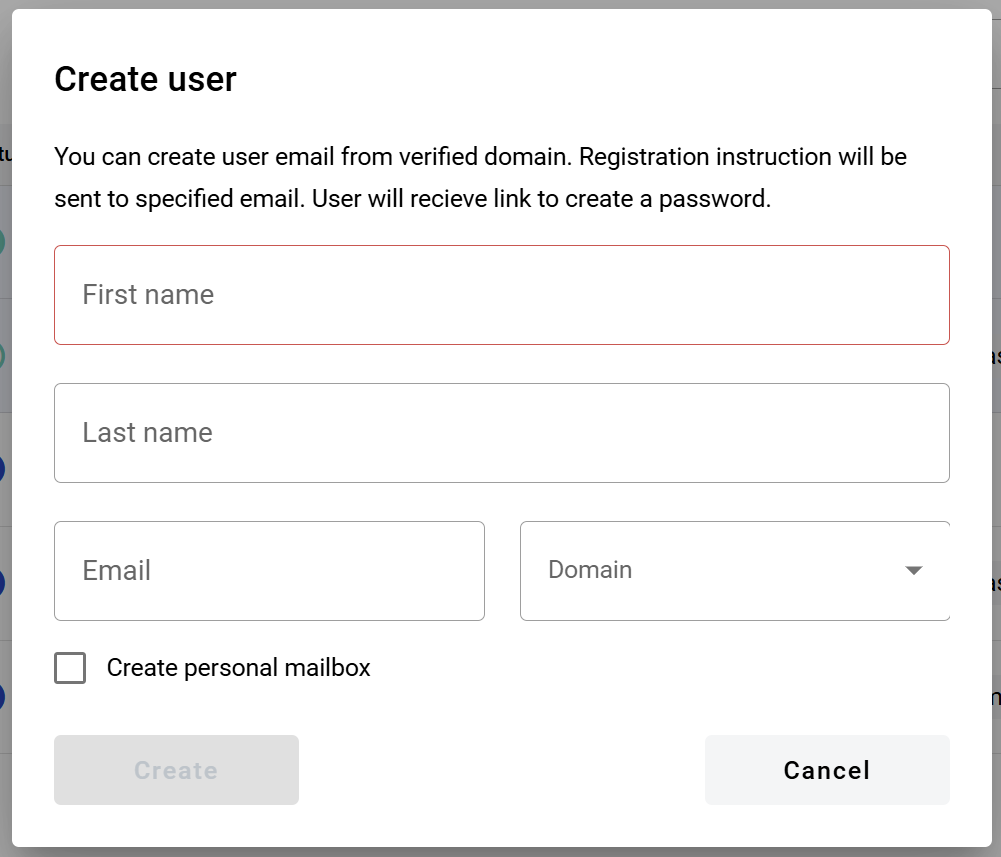
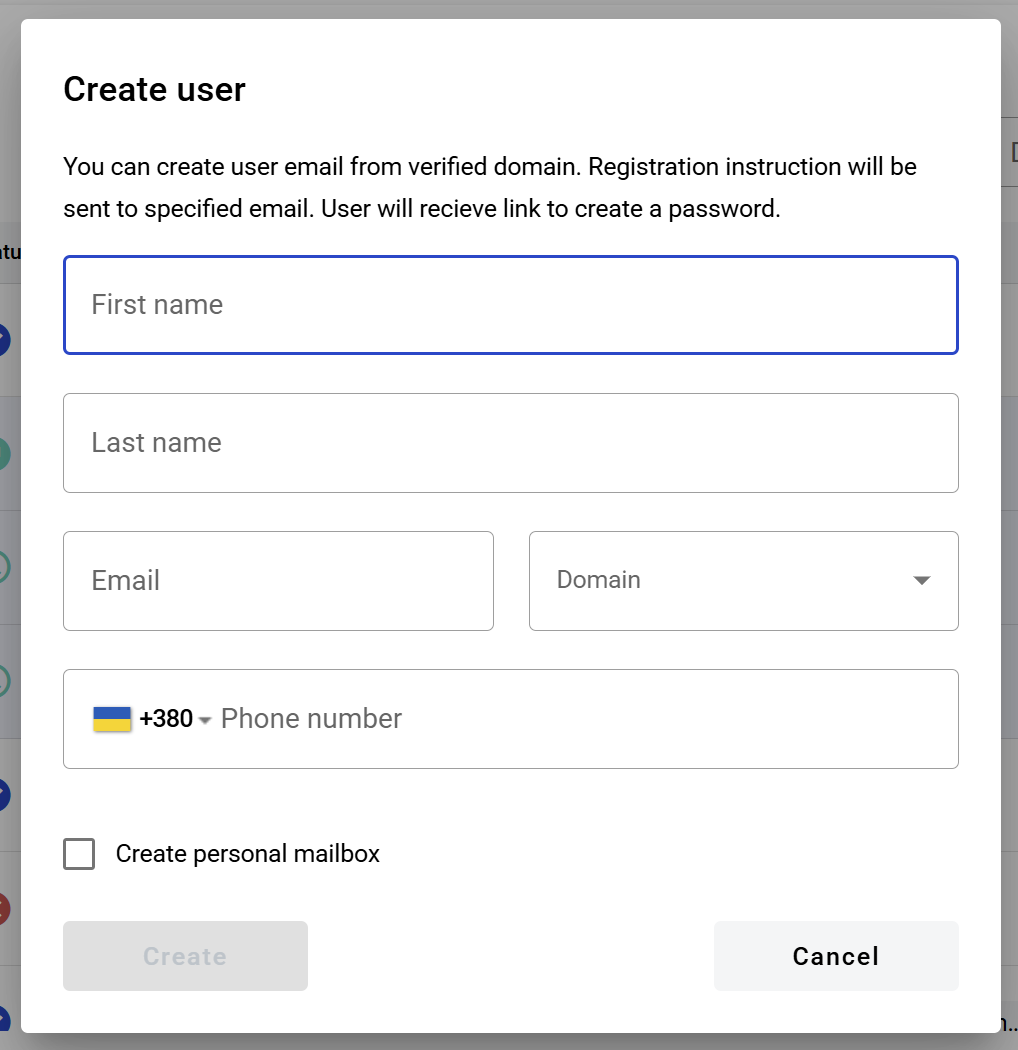
User invite & create updates (#364)

diff --git a/docs/source/pages/howToWorkWithPlatform/adminApplication/users/users.rst b/docs/source/pages/howToWorkWithPlatform/adminApplication/users/users.rst
@@ -5,7 +5,7 @@ Users
 This page allows to create and manage account users.
 
 .. image:: pic_users/usersPage.png
-   :width: 600
+   :width: 800
    :align: center
 
 Invite a users to the Account/Mailbox by email
@@ -18,7 +18,7 @@ Registered and not registered users can be invited to an Account/Mailbox with sp
 3. Fill the opened invitation form and click the "Invite user" button in the form
 
 .. image:: pic_users/inviteUserModal.png
-   :width: 400
+   :width: 600
    :align: center
 
 4. After this you will be redirected to the user edition page where you can assign account and mailbox permissions which you want to grant for this user
@@ -30,13 +30,13 @@ Grant account permissions
 You can grant a role (permissions preset) to user. To add a role click the "Add role" button. You can assign several roles to a user. System roles will be available by default and custom roles can be created on the roles page of the admin panel.
 
 .. image:: pic_users/accountRoles.png
-   :width: 400
+   :width: 600
    :align: center
 
 It is also possible to grant specific permisisons without using roles. To select a specific permissions click the "Advanced" button. In the opened form you will see a permission search field, permission filters and permissions list. To grant permissions you should select them by a checkboxes near permission names. When all required permission are selected click the "Apply" button in the form.
 
 .. image:: pic_users/accountPermissions.png
-   :width: 400
+   :width: 600
    :align: center
 
 .. note:: :ref:`Account permissions list and description <accountPermissions>`
@@ -47,11 +47,11 @@ Grant mailbox permissions
 You can grant mailbox roles and permissions in a similar manner as account roles and permissions on the mailbox tab. Only difference is that you need to click the required mailbox first, and then selects roles and/or permissions.
 
 .. image:: pic_users/mailboxRoles.png
-   :width: 400
+   :width: 600
    :align: center
 
 .. image:: pic_users/mailboxPermissions.png
-   :width: 400
+   :width: 600
    :align: center
 
 .. note:: :ref:`Mailbox permissions list and description <mailboxPermissions>`
@@ -62,7 +62,7 @@ Registered user invitation
 After an invite is sent, registered user will get an email with a link to the invites tab of user profile page with all invites listed there and options to accept or decline them.
 
 .. image:: pic_users/invitesTab.png
-   :width: 400
+   :width: 600
    :align: center
 
 After user accepted or declined an invitation you will receive a notification email with details.
@@ -95,10 +95,10 @@ As an administrator of an account you can create a corporate user, which is usef
 
 1. Navigate to https://platform_address_here/admin/users
 2. Click the "Create user" button and select "Create user" option from the menu
-3. Fill in all fields on the user creation form. Also you can choose should a personal mailbox be created for this user
+3. Fill in all fields on the user creation form (phone number can be optional based on the instance configuration). Also you can choose should a personal mailbox be created for this user
 
 .. image:: pic_users/createUserModal.png
-   :width: 400
+   :width: 600
    :align: center
 
 4. Click the "Create" button
@@ -106,7 +106,7 @@ As an administrator of an account you can create a corporate user, which is usef
 6. You can also open Settings tab to edit user details, such as name, timezone, phone (if it is enabled for users in instance settings), default mailbox etc.
 
 .. image:: pic_users/settingsTab.png
-   :width: 400
+   :width: 600
    :align: center
 
 .. note:: If you are editing existing users, this tab will be available only for corporate users.
@@ -119,19 +119,19 @@ Mass corporate users creation
 As an administrator of account you also can mass-create corporate users, which is useful for company accounts with a big number of employees. To do so, click the "Create user" button in the page header and select "Create users" option from the menu. A form will appear, allowing you to download the example file for mass user creation. You can open the file using any tool which support .xlsx format. Also, you have to save the file in this particular format, so make sure to not change the file extention after editing.
 
 .. image:: pic_users/createUsersModal.png
-   :width: 400
+   :width: 600
    :align: center
 
 1. First sheet is "Roles". It lists all roles available for the account which can be used on the "Account" and "Mailbox" sheets
 
 .. image:: pic_users/reportRolesTab.png
-   :width: 400
+   :width: 600
    :align: center
 
 2. Second sheet is "Permissions". It lists all permissions which can be used on the "Account" and "Mailbox" sheets
 
 .. image:: pic_users/reportPermissionsTab.png
-   :width: 400
+   :width: 600
    :align: center
 
 3. Third sheet is "Users". Here you should enter users data (first name, last name and email). Also you can choose should a personal mailbox be created for each user individually (Y to create, N or leave empty to not create). Users will be created according to this data
@@ -139,13 +139,13 @@ As an administrator of account you also can mass-create corporate users, which i
 .. warning:: All users in the list should have relations to an active domain(s). If any users without such relation will be added to the list, user creation process will fail.
 
 .. image:: pic_users/reportUsersTab.png
-   :width: 400
+   :width: 600
    :align: center
 
 4. Fourth sheet is "Account". This sheet allows to set account roles and permissions for each user from the list
 
 .. image:: pic_users/reportAccountTab.png
-   :width: 400
+   :width: 600
    :align: center
 
 .. warning:: If any incorrect emails will be added to the sheet, such users will not be created.
@@ -153,7 +153,7 @@ As an administrator of account you also can mass-create corporate users, which i
 5. Fifth and the rest of sheets are "Mailbox" sheets. These sheets allow to set mailbox roles and permissions for each user from the list
 
 .. image:: pic_users/reportMailboxTab.png
-   :width: 400
+   :width: 600
    :align: center
 
 .. warning:: If any incorrect emails will be added to the sheet, such users will not be created.
@@ -166,14 +166,14 @@ How to get authorized as a corporate user
 1. Open "You are registered on the electronic document management platform" email
 
 .. image:: pic_users/corporateUserRegistrationEmail.png
-   :width: 400
+   :width: 600
    :align: center
 
 2. Follow the link to create a password for your user profile
 3. Create a password and confirm it
 
 .. image:: pic_users/createPasswordForm.png
-   :width: 400
+   :width: 600
    :align: center
 
 4. Authorize on platform using credentials above
